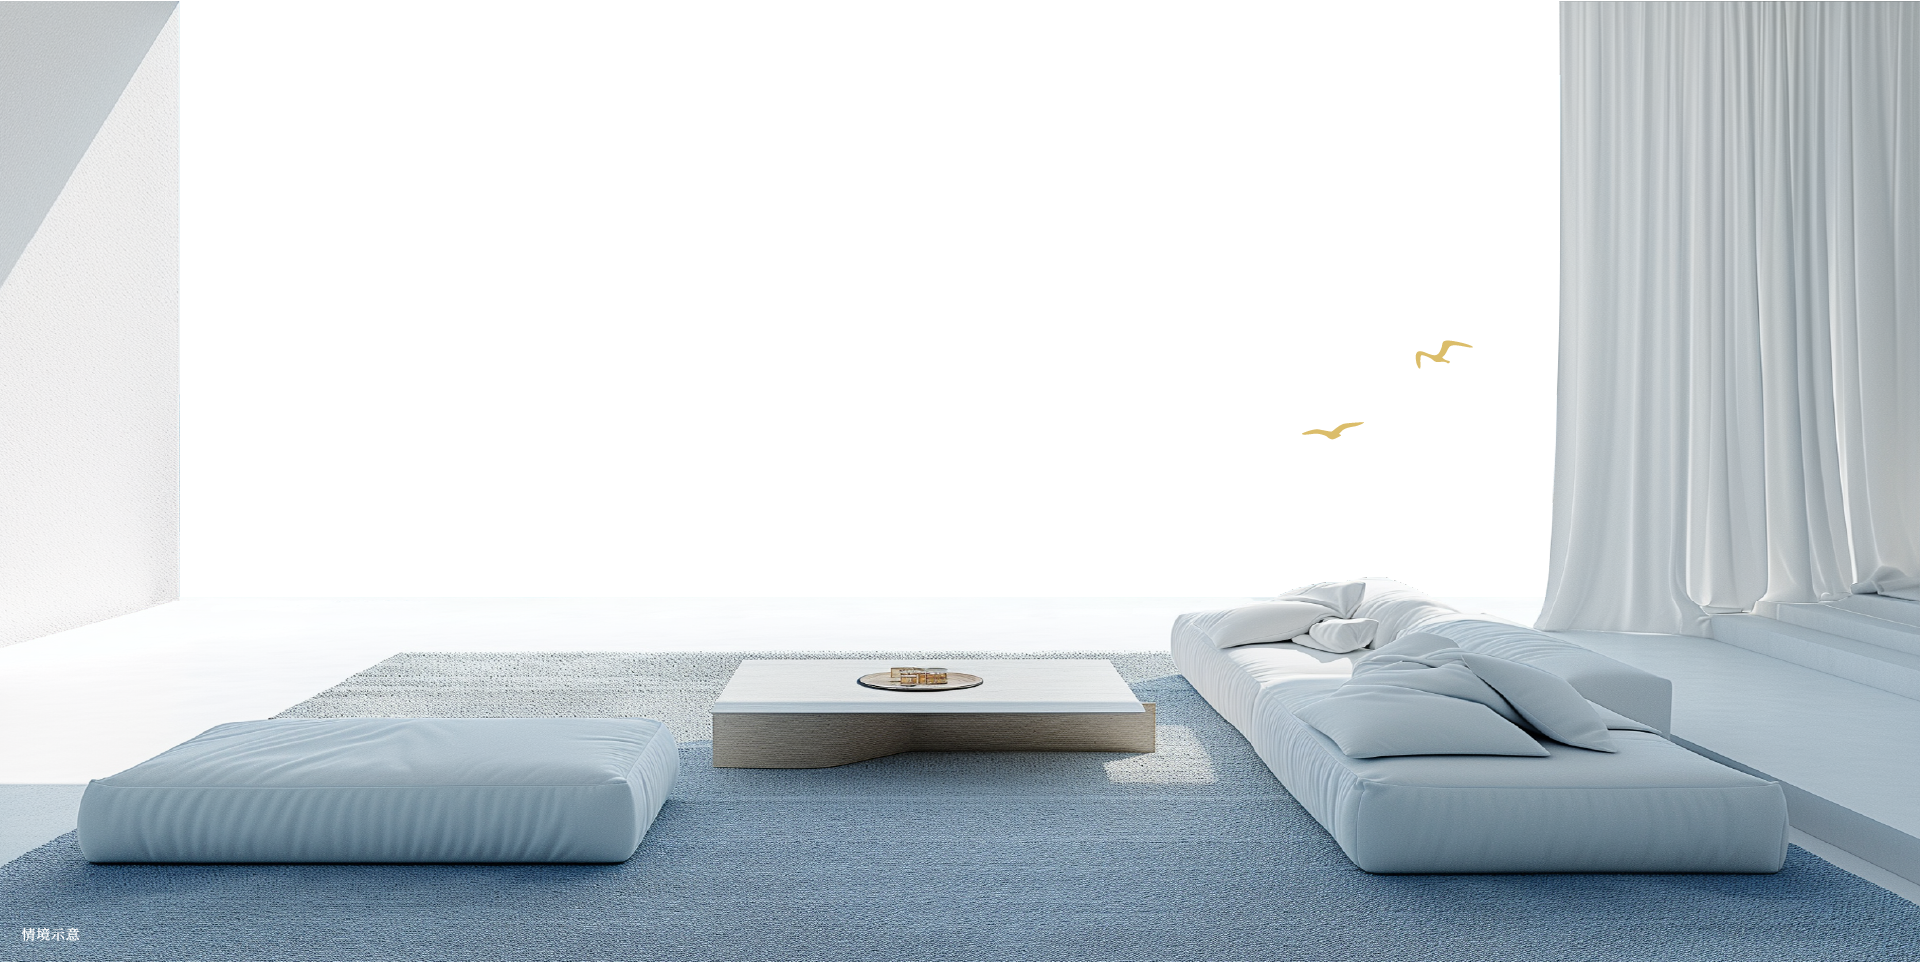
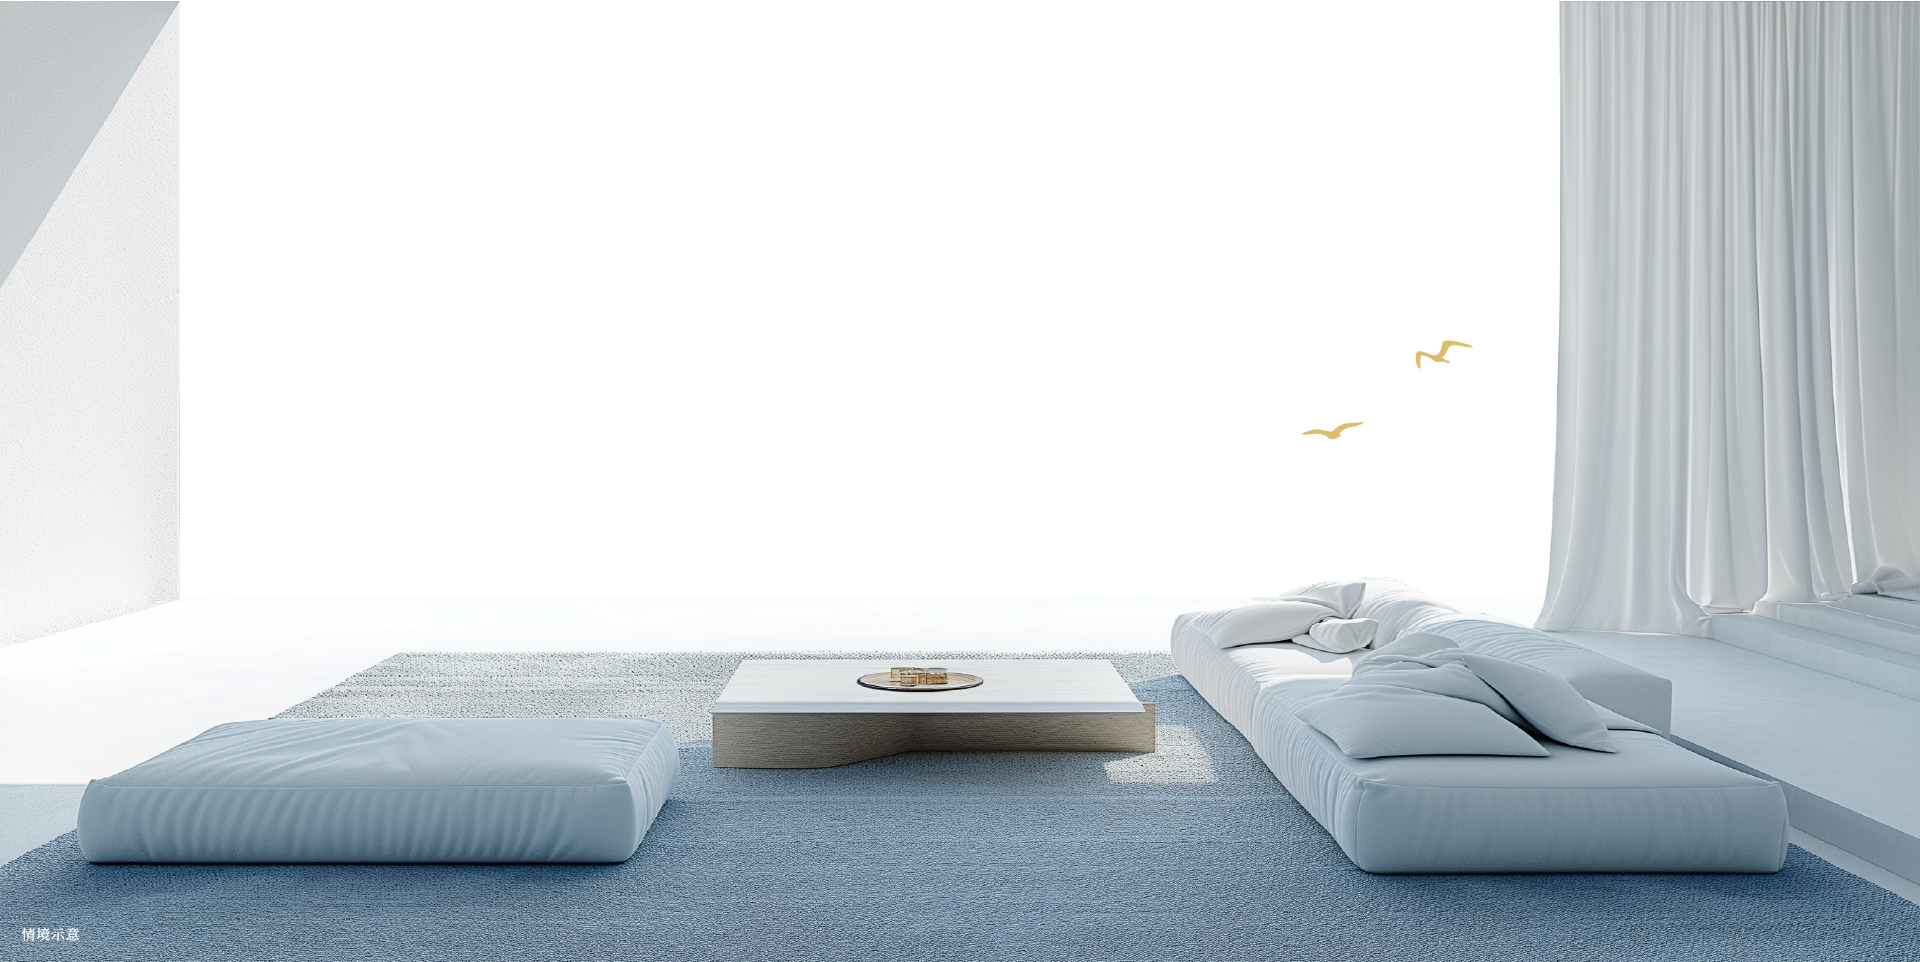
up img. video bg

diff --git a/components/shared/release/Section01.tsx b/components/shared/release/Section01.tsx
@@ -1,18 +1,34 @@
-import React from 'react'
+import React from "react";
 
 const Section01 = () => {
   return (
-    <div
-      className='bg-center bg-cover bg-no-repeat  md:h-screen'
-      style={{ backgroundImage: `url('/images/release/section01_bg.png')`}}
-      data-aos="fade" data-aos-duration="1000"
-    >
-      <div className='flex w-8/12 mx-auto py-[6%] gap-20 items-center '>
-         <div data-aos="fade-up" data-aos-duration="1000"><img src="/images/release/section01_p01.png" alt="" /></div>
-         <div data-aos="fade" data-aos-duration="1000"><img src="/images/release/section01_title.png" alt="" /></div>
+    <div className="bg-center bg-cover bg-no-repeat    relative">
+      <div className="   -z-10 w-full ">
+        <img src="/images/release/section01_bg.png" alt="" className="w-full" />
+        <video
+          autoPlay
+          muted
+          loop
+          playsInline
+          style={{ height: "100%", width: "100%", objectFit: "cover" }} //object-fit:cover
+          className=" absolute top-0 left-0 right-0 w-full h-[100%] -z-20  pointer-events-none"
+        >
+          <source
+            src={"https://pub-a73f7d8384414e33a55eebf09fd805cd.r2.dev/bg.mp4"}
+            type="video/mp4"
+          />
+        </video>
+      </div>
+      <div className="flex w-8/12 mx-auto md:py-[6%] gap-20 items-center absolute top-5 md:top-10 left-1/2 -translate-x-1/2 z-10 ">
+        <div data-aos="fade-up" data-aos-duration="1000">
+          <img src="/images/release/section01_p01.png" alt="" />
+        </div>
+        <div data-aos="fade" data-aos-duration="1000">
+          <img src="/images/release/section01_title.png" alt="" />
+        </div>
       </div>
     </div>
-  )
-}
+  );
+};
 
-export default Section01
+export default Section01;

diff --git a/components/shared/release/Section02.tsx b/components/shared/release/Section02.tsx
@@ -49,7 +49,7 @@ const Section02 = () => {
         </div>
       </div>
 
-      <div className="w-full md:w-3/4 mx-auto mt-10">
+      <div className="w-full md:w-3/4 mx-auto mt-5 md:mt-10">
         <img
           src="/images/release/section02_map.png"
           alt=""
@@ -58,7 +58,7 @@ const Section02 = () => {
         />
       </div>
 
-      <div className="my-14 flex items-center gap-10 w-full md:w-3/4 mx-auto">
+      <div className="my-5 md:my-14 flex items-center gap-10 w-full md:w-3/4 mx-auto">
         <div className="w-1/2">
           <Swiper
             spaceBetween={30}
